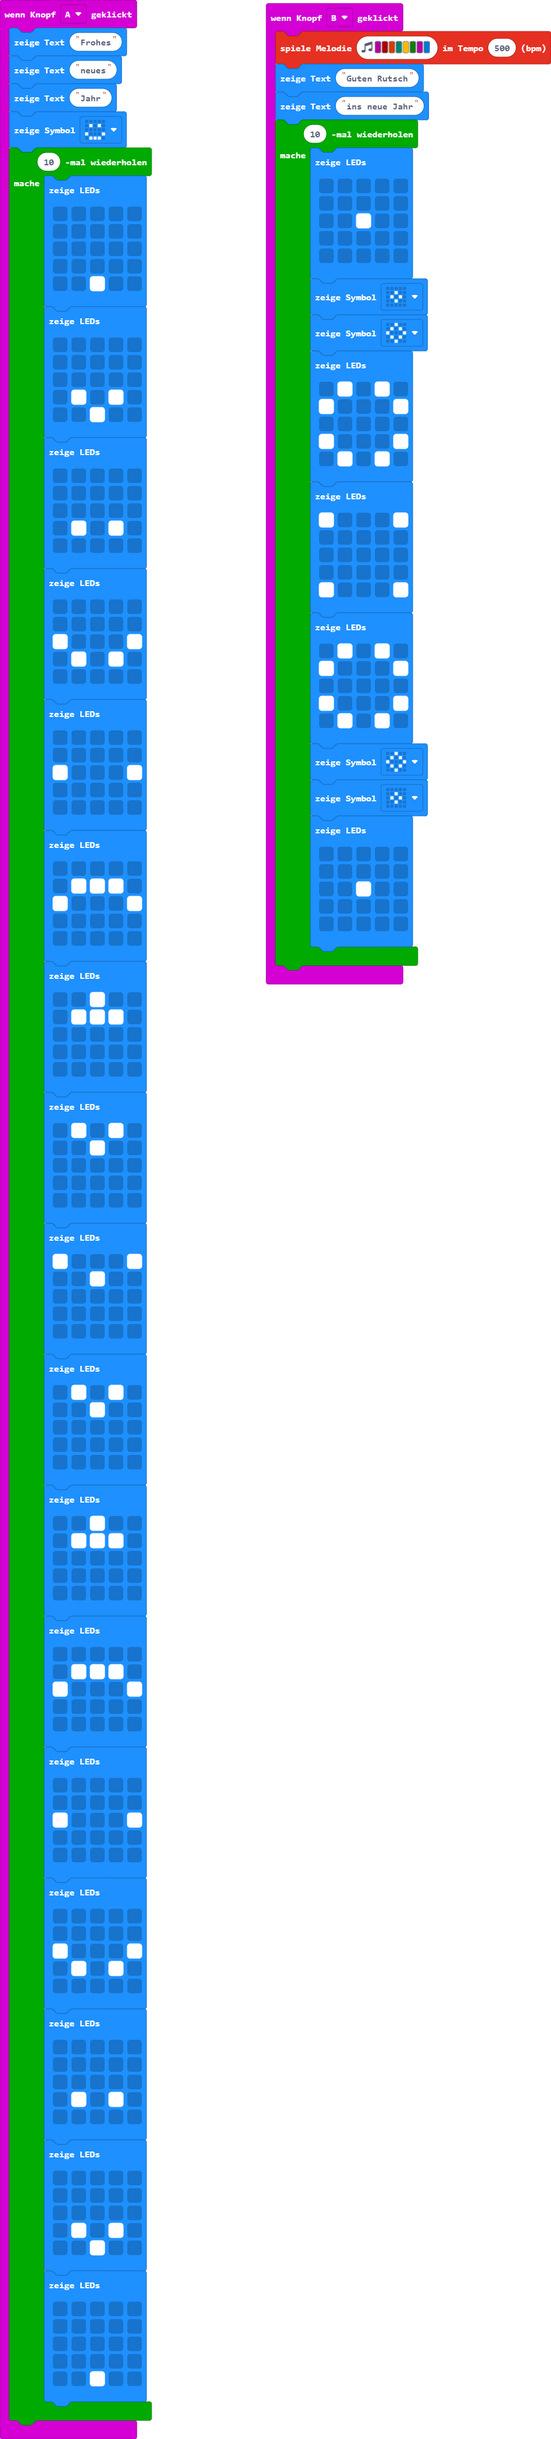
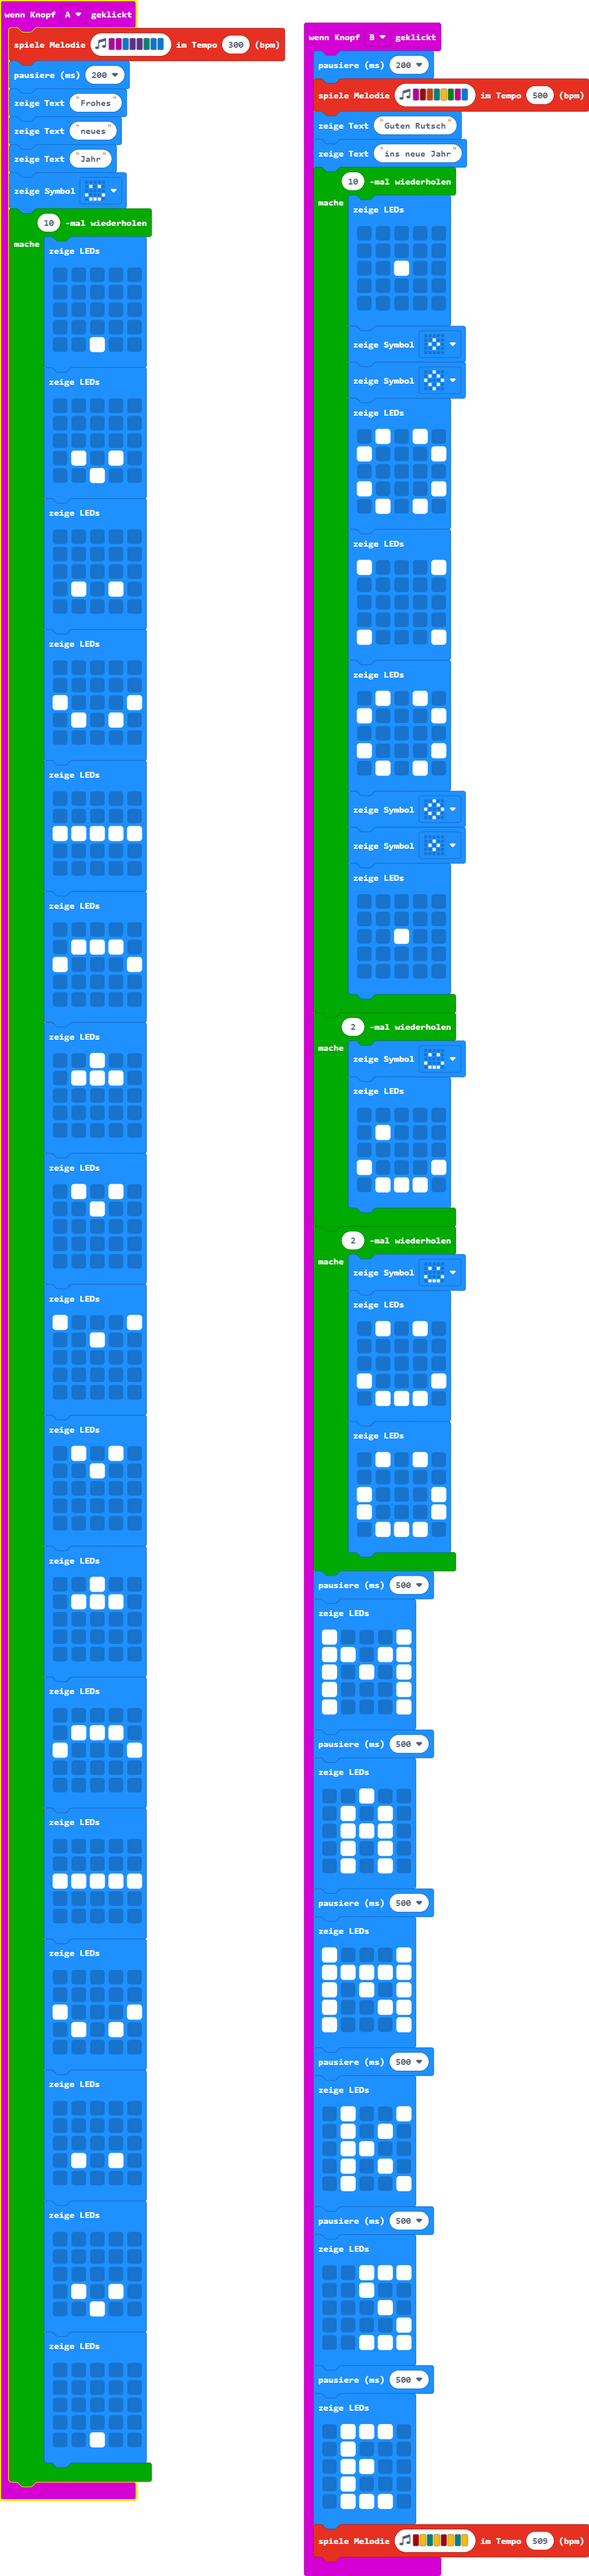
Aktualisiere pxt.json, main.blocks, main.ts, main.py

diff --git a/main.ts b/main.ts
@@ -1,4 +1,6 @@
 input.onButtonPressed(Button.A, function () {
+    music.playMelody("C C E D D F E E ", 300)
+    basic.pause(200)
     basic.showString("Frohes")
     basic.showString("neues")
     basic.showString("Jahr")
@@ -35,7 +37,7 @@ input.onButtonPressed(Button.A, function () {
         basic.showLeds(`
             . . . . .
             . . . . .
-            # . . . #
+            # # # # #
             . . . . .
             . . . . .
             `)
@@ -91,7 +93,7 @@ input.onButtonPressed(Button.A, function () {
         basic.showLeds(`
             . . . . .
             . . . . .
-            # . . . #
+            # # # # #
             . . . . .
             . . . . .
             `)
@@ -126,6 +128,7 @@ input.onButtonPressed(Button.A, function () {
     }
 })
 input.onButtonPressed(Button.B, function () {
+    basic.pause(200)
     music.playMelody("C C5 B F A G C E ", 500)
     basic.showString("Guten Rutsch")
     basic.showString("ins neue Jahr")
@@ -170,4 +173,80 @@ input.onButtonPressed(Button.B, function () {
             . . . . .
             `)
     }
+    for (let index = 0; index < 2; index++) {
+        basic.showIcon(IconNames.Happy)
+        basic.showLeds(`
+            . . . . .
+            . # . . .
+            . . . . .
+            # . . . #
+            . # # # .
+            `)
+    }
+    for (let index = 0; index < 2; index++) {
+        basic.showIcon(IconNames.Happy)
+        basic.showLeds(`
+            . # . # .
+            . . . . .
+            . . . . .
+            # . . . #
+            . # # # .
+            `)
+        basic.showLeds(`
+            . # . # .
+            . . . . .
+            # . . . #
+            # . . . #
+            . # # # .
+            `)
+    }
+    basic.pause(500)
+    basic.showLeds(`
+        # . . . #
+        # # . # #
+        # . # . #
+        # . . . #
+        # . . . #
+        `)
+    basic.pause(500)
+    basic.showLeds(`
+        . . # . .
+        . # . # .
+        . # # # .
+        . # . # .
+        . # . # .
+        `)
+    basic.pause(500)
+    basic.showLeds(`
+        # . . . #
+        # # # # #
+        # . # . #
+        # . . # #
+        # . . . #
+        `)
+    basic.pause(500)
+    basic.showLeds(`
+        . # . . #
+        . # . # .
+        . # # . .
+        . # . # .
+        . # . . #
+        `)
+    basic.pause(500)
+    basic.showLeds(`
+        . . # # #
+        . . # . .
+        . . . # .
+        . . . . #
+        . . # # #
+        `)
+    basic.pause(500)
+    basic.showLeds(`
+        . # # # .
+        . # . . .
+        . # # . .
+        . # . . .
+        . # # # .
+        `)
+    music.playMelody("C5 A F A C5 A F A ", 509)
 })

diff --git a/main.py b/main.py
@@ -1,0 +1,172 @@
+def on_button_pressed_a():
+    basic.show_string("Frohes")
+    basic.show_string("neues")
+    basic.show_string("Jahr")
+    basic.show_icon(IconNames.HAPPY)
+    for index in range(10):
+        basic.show_leds("""
+            . . . . .
+                        . . . . .
+                        . . . . .
+                        . . . . .
+                        . . # . .
+        """)
+        basic.show_leds("""
+            . . . . .
+                        . . . . .
+                        . . . . .
+                        . # . # .
+                        . . # . .
+        """)
+        basic.show_leds("""
+            . . . . .
+                        . . . . .
+                        . . . . .
+                        . # . # .
+                        . . . . .
+        """)
+        basic.show_leds("""
+            . . . . .
+                        . . . . .
+                        # . . . #
+                        . # . # .
+                        . . . . .
+        """)
+        basic.show_leds("""
+            . . . . .
+                        . . . . .
+                        # . . . #
+                        . . . . .
+                        . . . . .
+        """)
+        basic.show_leds("""
+            . . . . .
+                        . # # # .
+                        # . . . #
+                        . . . . .
+                        . . . . .
+        """)
+        basic.show_leds("""
+            . . # . .
+                        . # # # .
+                        . . . . .
+                        . . . . .
+                        . . . . .
+        """)
+        basic.show_leds("""
+            . # . # .
+                        . . # . .
+                        . . . . .
+                        . . . . .
+                        . . . . .
+        """)
+        basic.show_leds("""
+            # . . . #
+                        . . # . .
+                        . . . . .
+                        . . . . .
+                        . . . . .
+        """)
+        basic.show_leds("""
+            . # . # .
+                        . . # . .
+                        . . . . .
+                        . . . . .
+                        . . . . .
+        """)
+        basic.show_leds("""
+            . . # . .
+                        . # # # .
+                        . . . . .
+                        . . . . .
+                        . . . . .
+        """)
+        basic.show_leds("""
+            . . . . .
+                        . # # # .
+                        # . . . #
+                        . . . . .
+                        . . . . .
+        """)
+        basic.show_leds("""
+            . . . . .
+                        . . . . .
+                        # . . . #
+                        . . . . .
+                        . . . . .
+        """)
+        basic.show_leds("""
+            . . . . .
+                        . . . . .
+                        # . . . #
+                        . # . # .
+                        . . . . .
+        """)
+        basic.show_leds("""
+            . . . . .
+                        . . . . .
+                        . . . . .
+                        . # . # .
+                        . . . . .
+        """)
+        basic.show_leds("""
+            . . . . .
+                        . . . . .
+                        . . . . .
+                        . # . # .
+                        . . # . .
+        """)
+        basic.show_leds("""
+            . . . . .
+                        . . . . .
+                        . . . . .
+                        . . . . .
+                        . . # . .
+        """)
+input.on_button_pressed(Button.A, on_button_pressed_a)
+
+def on_button_pressed_b():
+    music.play_melody("C C5 B F A G C E ", 500)
+    basic.show_string("Guten Rutsch")
+    basic.show_string("ins neue Jahr")
+    for index2 in range(10):
+        basic.show_leds("""
+            . . . . .
+                        . . . . .
+                        . . # . .
+                        . . . . .
+                        . . . . .
+        """)
+        basic.show_icon(IconNames.SMALL_DIAMOND)
+        basic.show_icon(IconNames.DIAMOND)
+        basic.show_leds("""
+            . # . # .
+                        # . . . #
+                        . . . . .
+                        # . . . #
+                        . # . # .
+        """)
+        basic.show_leds("""
+            # . . . #
+                        . . . . .
+                        . . . . .
+                        . . . . .
+                        # . . . #
+        """)
+        basic.show_leds("""
+            . # . # .
+                        # . . . #
+                        . . . . .
+                        # . . . #
+                        . # . # .
+        """)
+        basic.show_icon(IconNames.DIAMOND)
+        basic.show_icon(IconNames.SMALL_DIAMOND)
+        basic.show_leds("""
+            . . . . .
+                        . . . . .
+                        . . # . .
+                        . . . . .
+                        . . . . .
+        """)
+input.on_button_pressed(Button.B, on_button_pressed_b)
